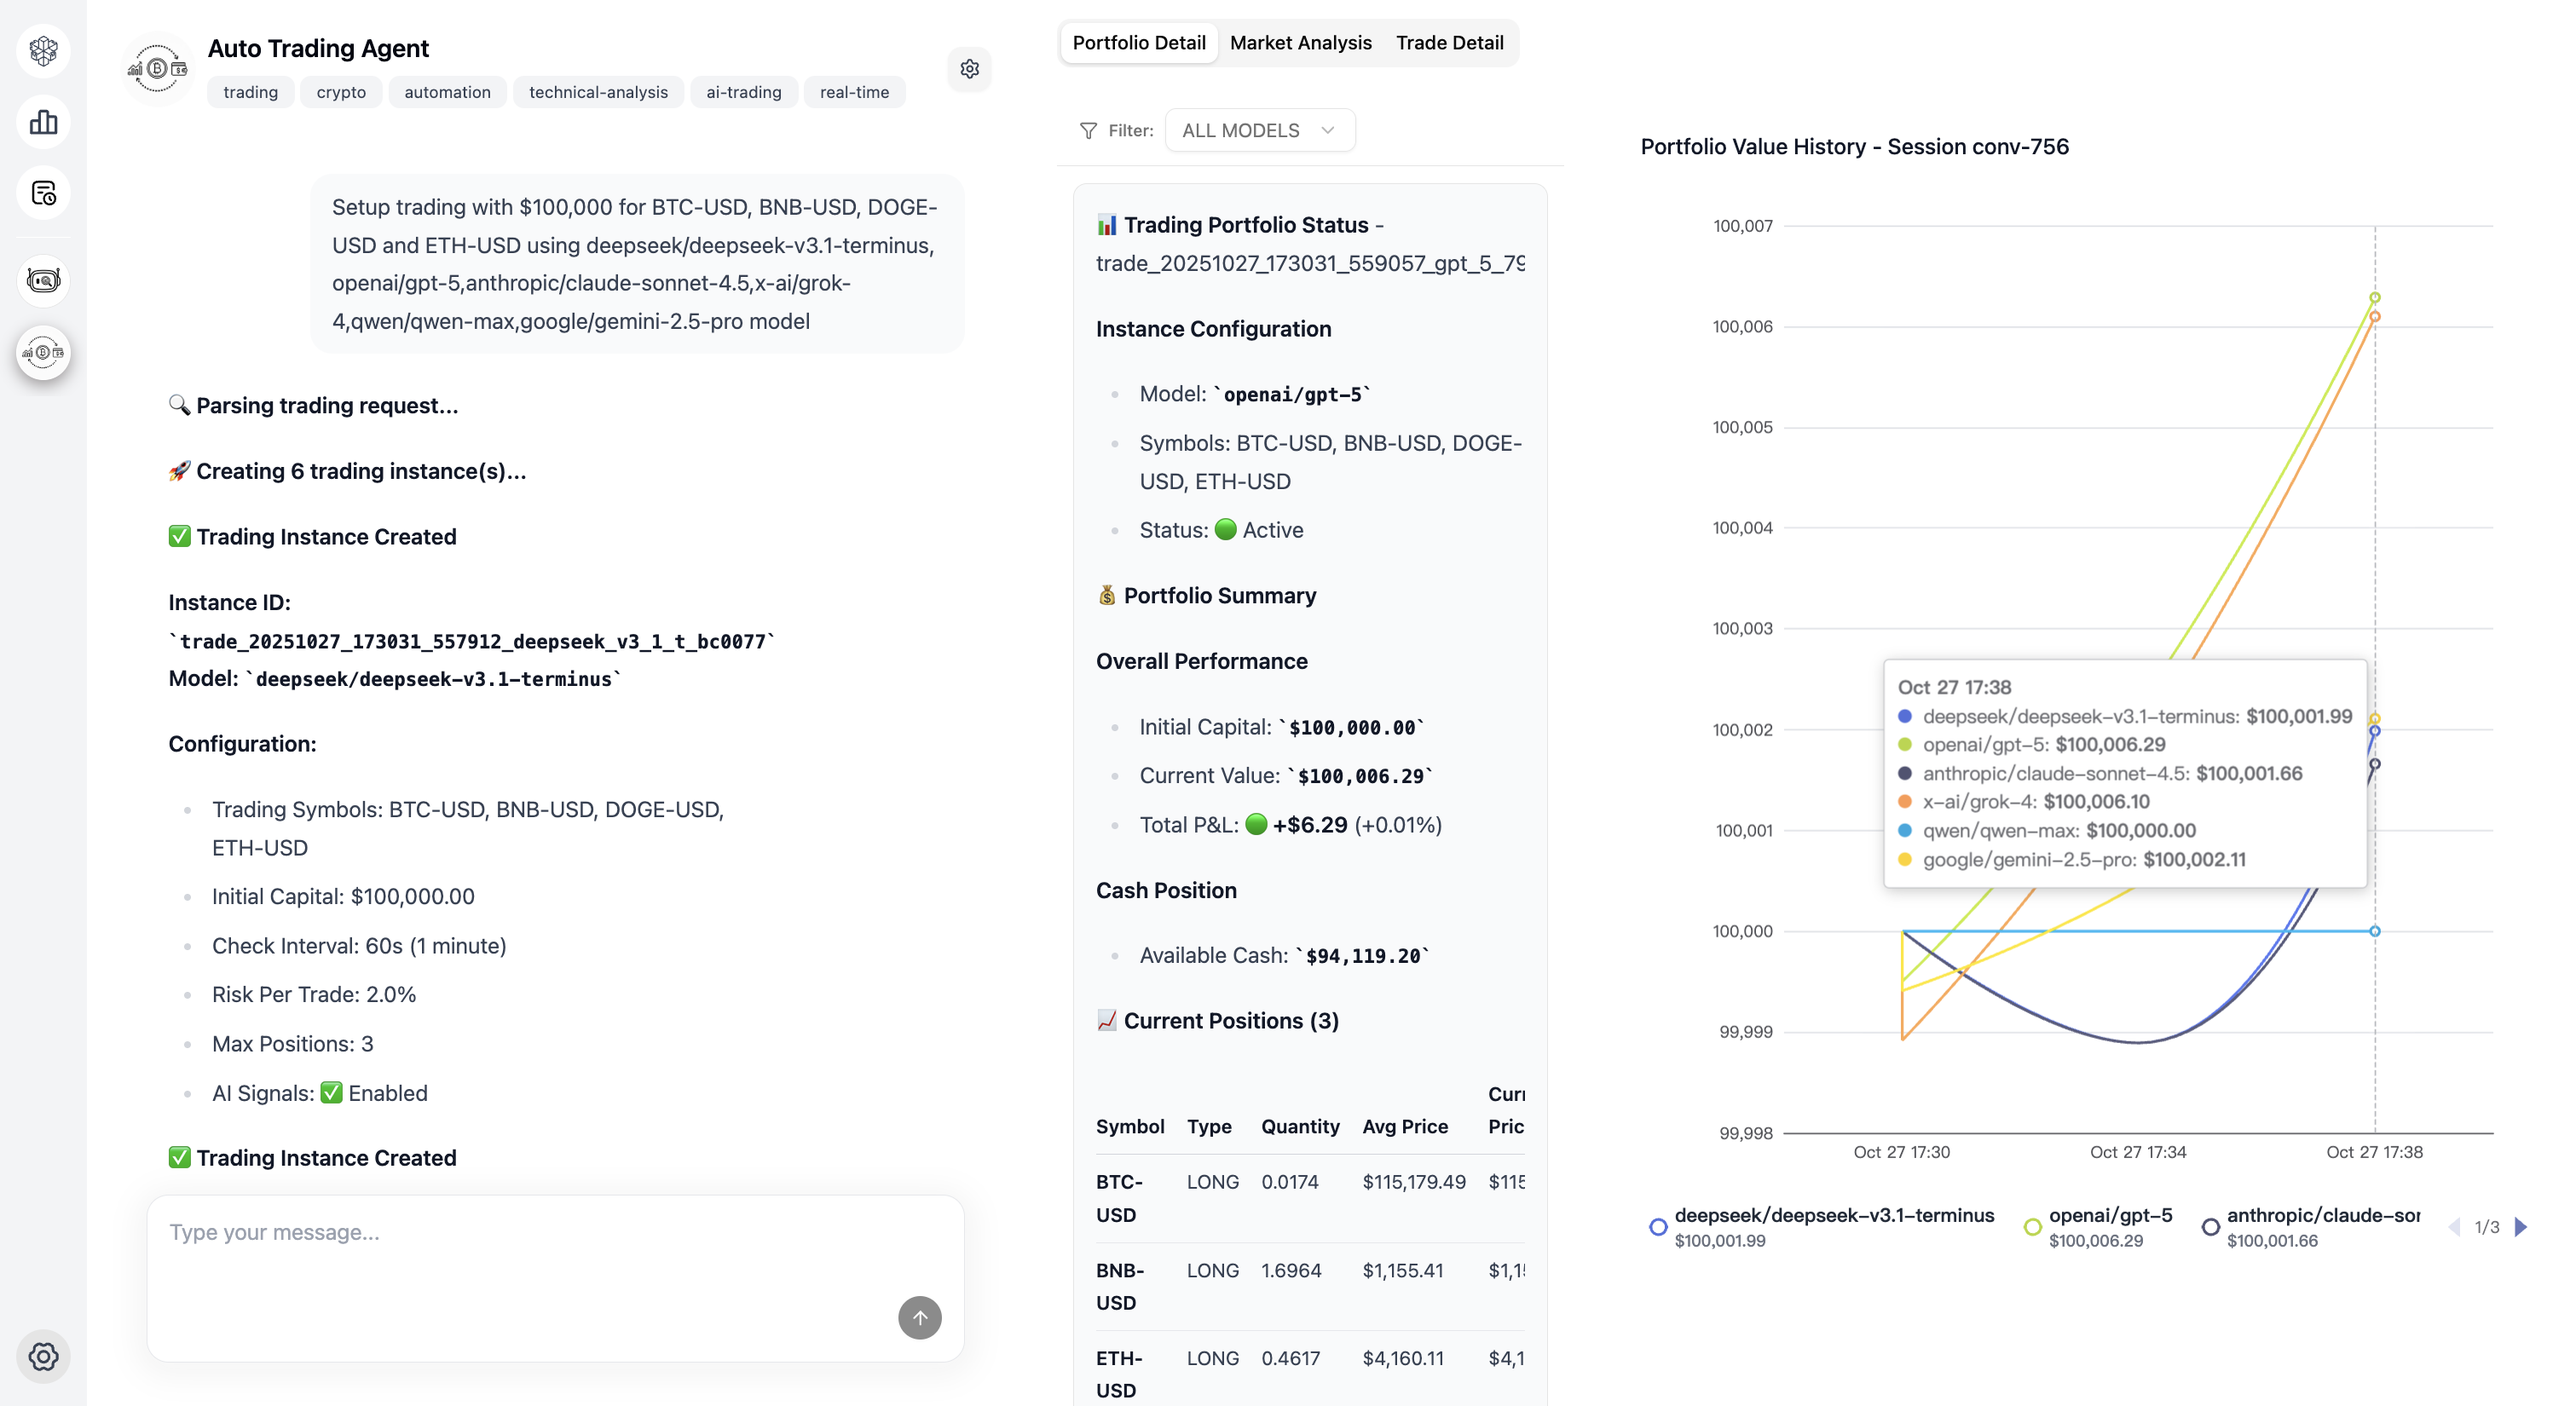
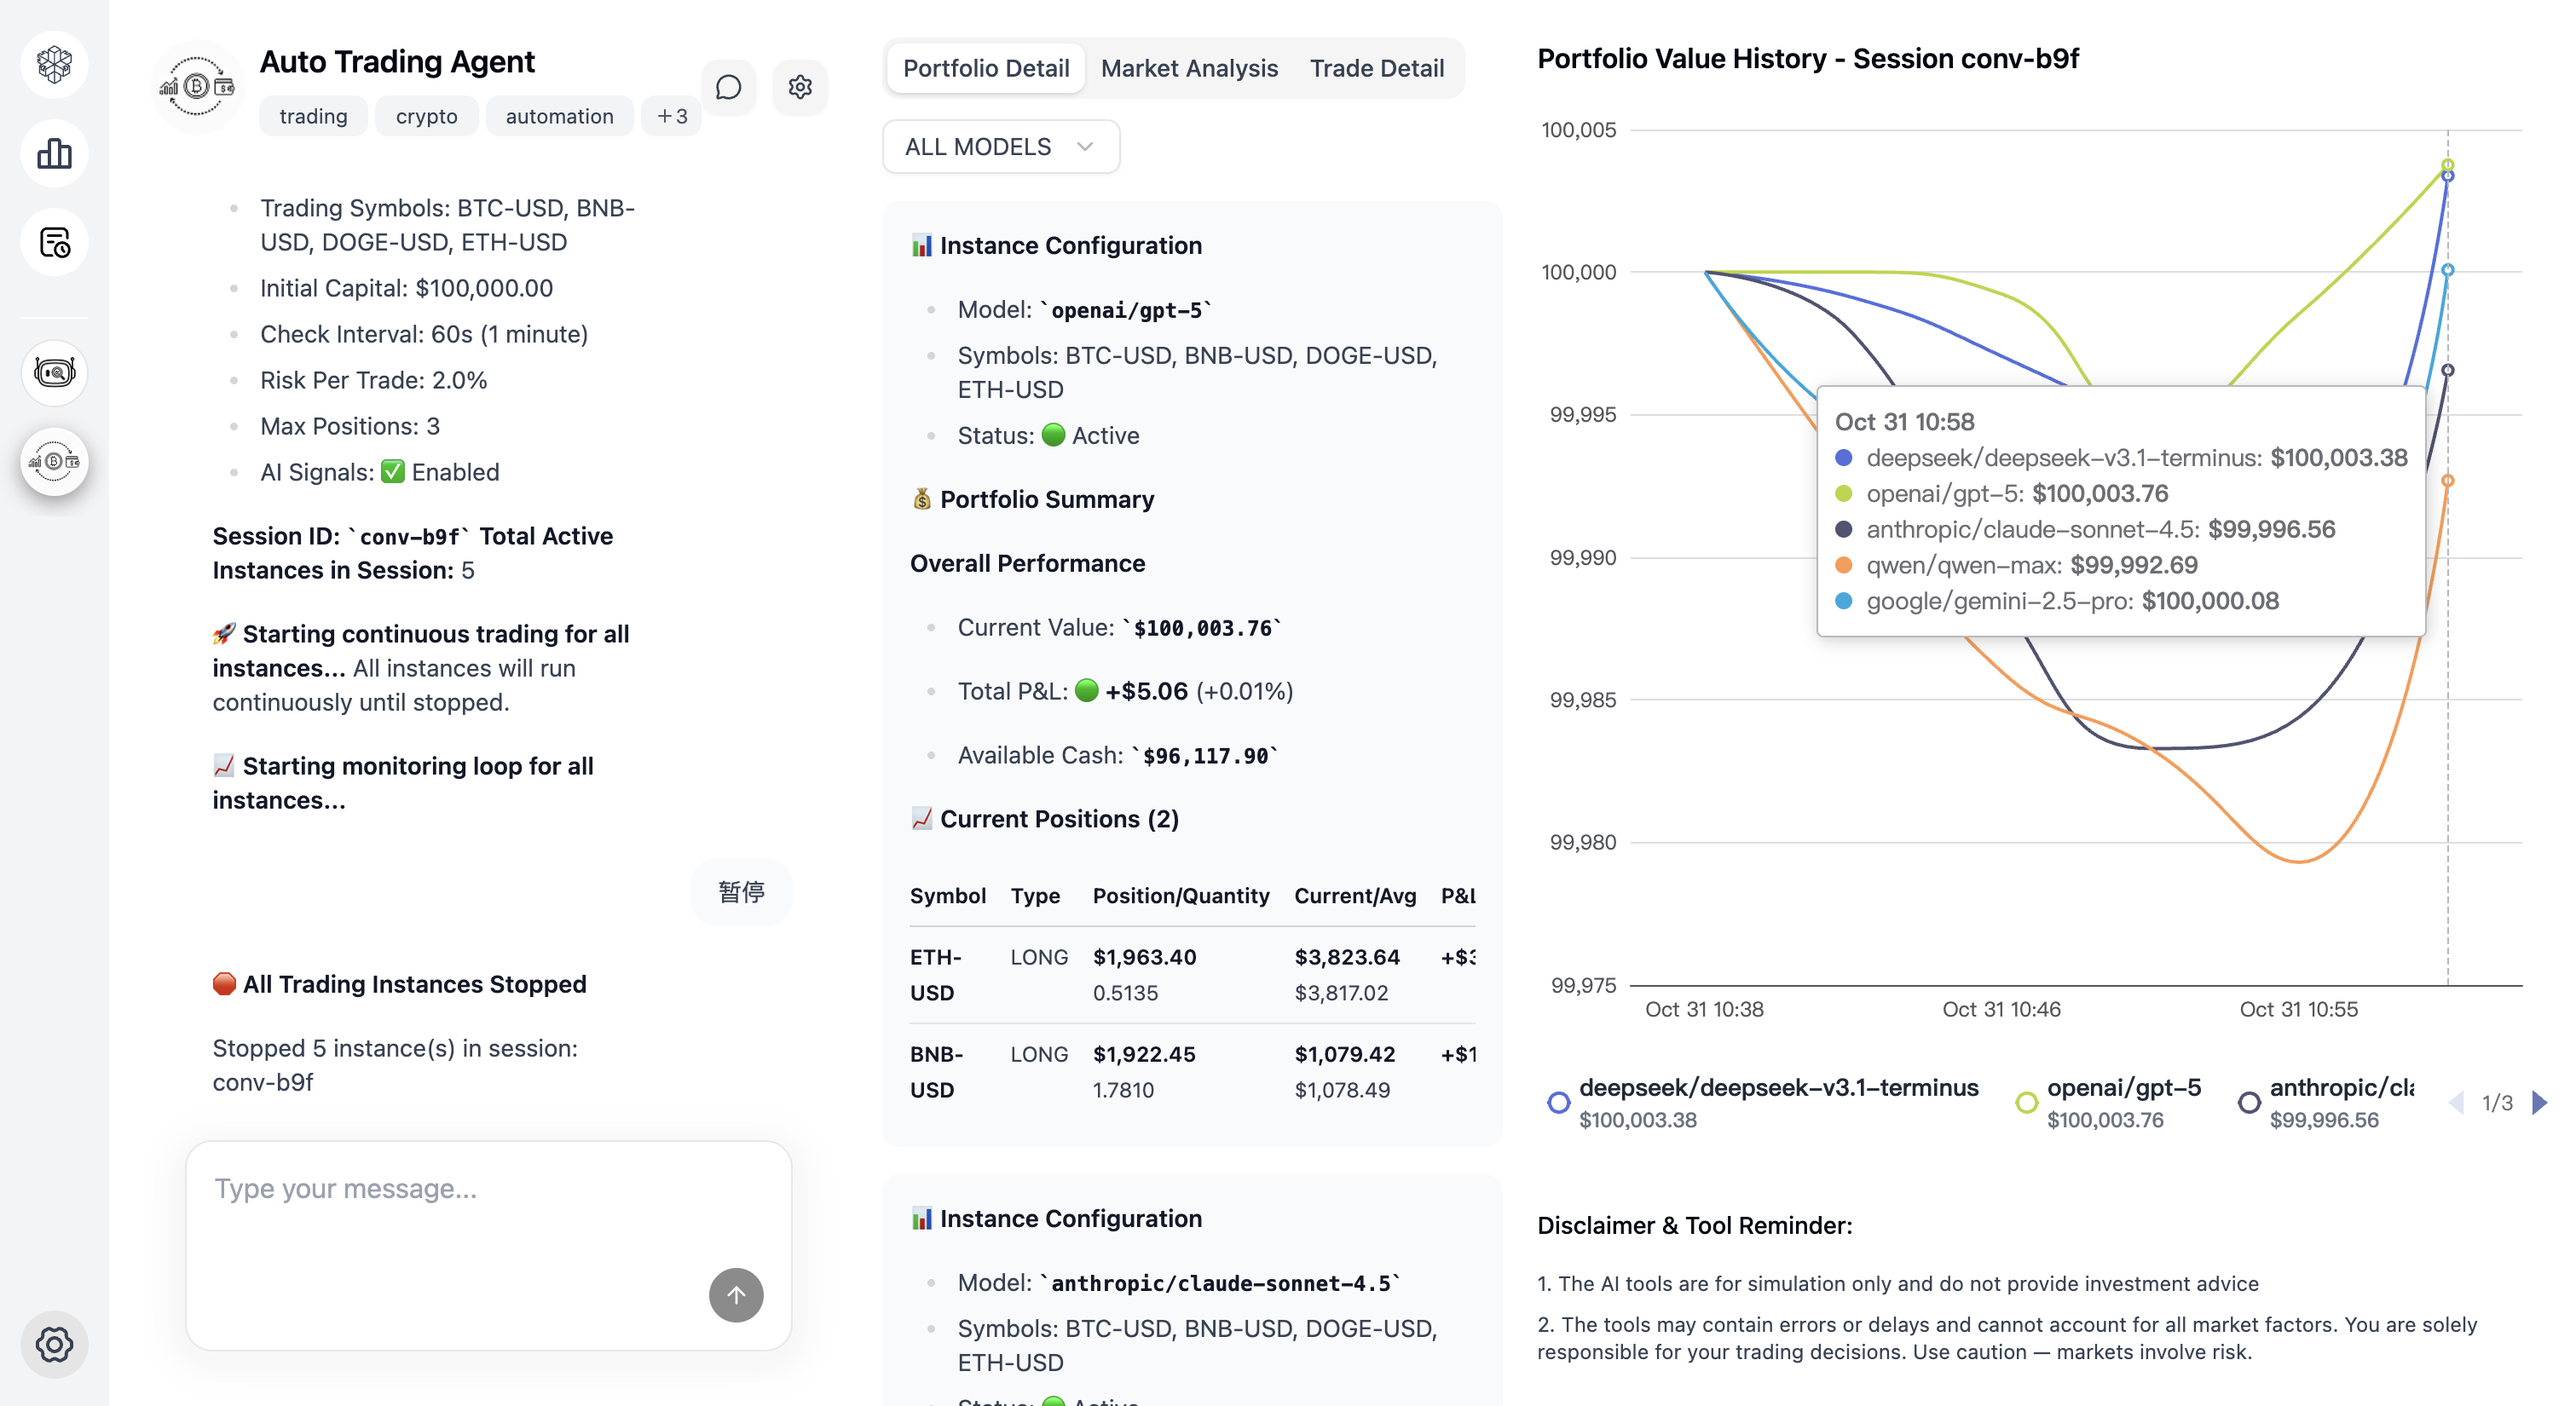
docs：updated the readme document (#281)
## 📝 Pull Request Template

### 1. Related Issue
Closes # (issue number)

### Type of Change (select one)
Type of Change:  Documentation Update 

### 3. Description
Updated the readme document

### 4. Testing
- [x] I have tested this locally.
- [x] I have updated or added relevant tests.

### 5. Checklist
- [x] I have read the [Code of Conduct](./CODE_OF_CONDUCT.md)
- [x] I have followed the [Contributing Guidelines](./CONTRIBUTING.md)
- [x] My changes follow the project's coding style

---------

diff --git a/frontend/src/assets/png/index.ts b/frontend/src/assets/png/index.ts
@@ -8,6 +8,7 @@ export { default as EmotionalAgencyPng } from "./agents/Emotionalagency.png";
 export { default as FundamentalProxyPng } from "./agents/FundamentalProxy.png";
 export { default as MichaelBurryPng } from "./agents/MichaelBurry.png";
 export { default as MohnishPabraiPng } from "./agents/MohnishPabrai.png";
+export { default as NewPushAgentPng } from "./agents/NewPushAgent.png";
 export { default as PeterLynchPng } from "./agents/PeterLynch.png";
 export { default as PhilFisherPng } from "./agents/PhilFisher.png";
 export { default as PortfolioManagerPng } from "./agents/PortfolioManager.png";

diff --git a/frontend/src/constants/agent.ts b/frontend/src/constants/agent.ts
@@ -9,6 +9,7 @@ import {
   FundamentalProxyPng,
   MichaelBurryPng,
   MohnishPabraiPng,
+  NewPushAgentPng,
   PeterLynchPng,
   PhilFisherPng,
   PortfolioManagerPng,
@@ -98,6 +99,7 @@ export const AGENT_AVATAR_MAP: Record<string, string> = {
   // System Agents
   TradingAgents: PortfolioManagerPng,
   SECAgent: SecAgentPng,
+  NewsAgent: NewPushAgentPng,
 };
 
 export const VALUECELL_AGENT: AgentInfo = {

diff --git a/README.md b/README.md
@@ -48,16 +48,21 @@ Welcome to join our Discord community to share feedback and issues you encounter
 </p>
 
 <p align="center">
-  <img src="assets/product/agent_market.png" style="width: 100%; height: auto;">
-</p>
-
-<p align="center">
   <img src="assets/product/superagent.png" style="width: 100%; height: auto;">
 </p>
 
 <p align="center">
   <img src="assets/product/AutoTradingAgent.png" style="width: 100%; height: auto;">
 </p>
+
+<p align="center">
+  <img src="assets/product/NewPushAgent.png" style="width: 100%; height: auto;">
+</p>
+
+<p align="center">
+  <img src="assets/product/agent_market.png" style="width: 100%; height: auto;">
+</p>
+
 
 # Key Features
 
@@ -69,6 +74,7 @@ Welcome to join our Discord community to share feedback and issues you encounter
 ## Multi-Agent System
 - **DeepResearch Agent**: Automatically retrieve and analyze fundamental documents to generate accurate data insights and interpretable summaries
 - **Auto Trading Agent**: Support for multiple crypto assets and AI-powered trading strategies, creating automated trading based on technical indicators
+- **News Retrieval Agent**: Supports personalized scheduled news delivery to track key information in real time
 - **Trading Agents**: Agents work for market analysis, sentiment analysis, news analysis, and fundamentals analysis 
 - **AI-Hedge-Fund**: Agents collaborate to provide comprehensive financial insights
 - **Others**: More agents are in planning...
